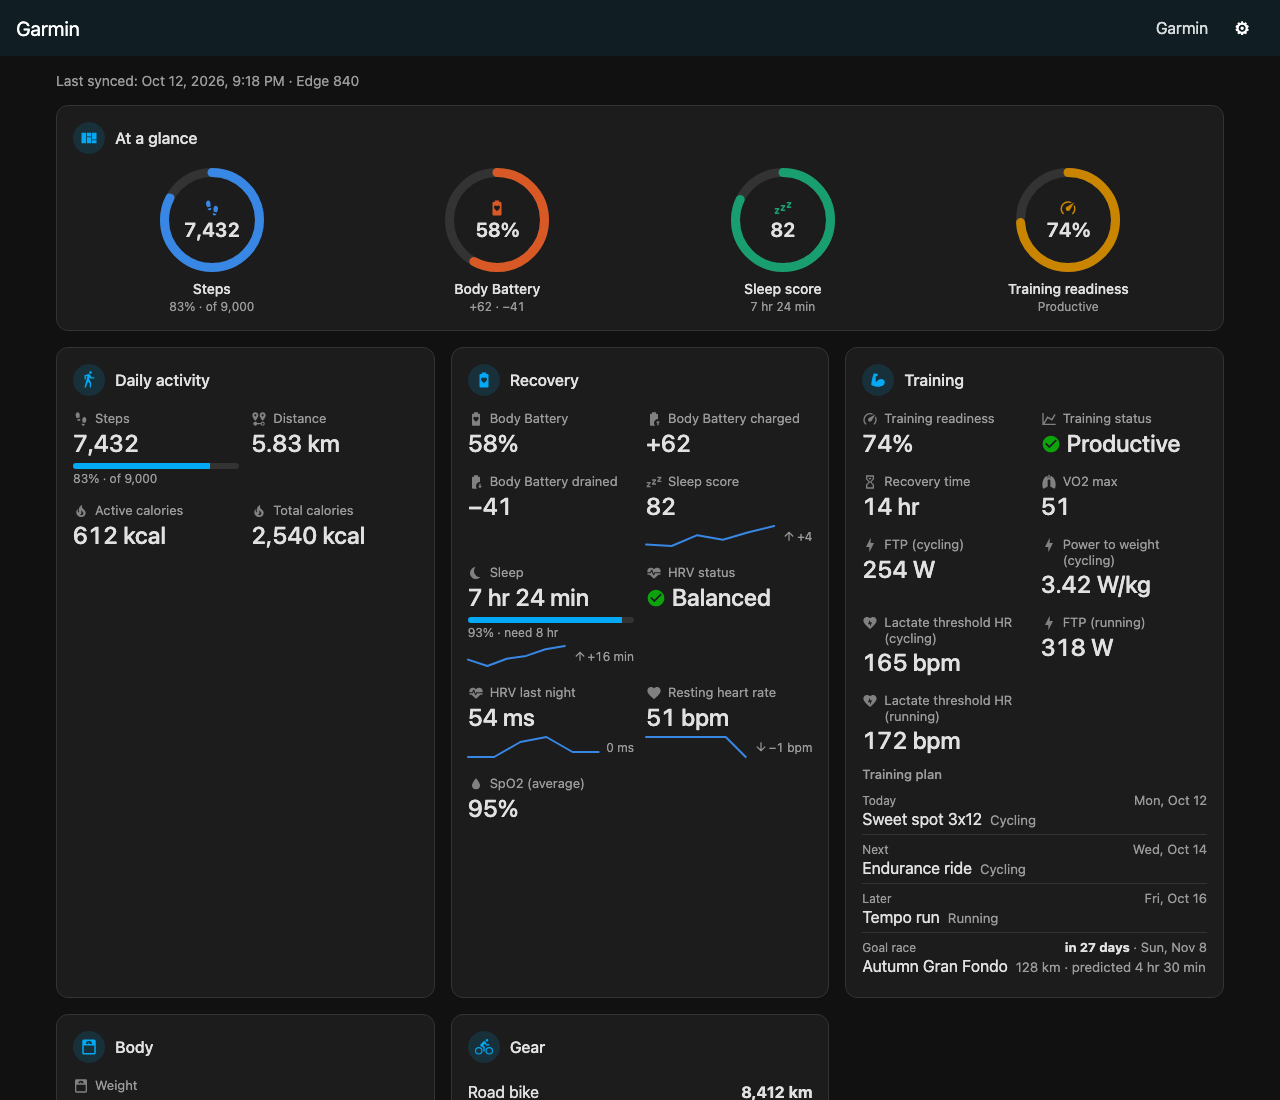
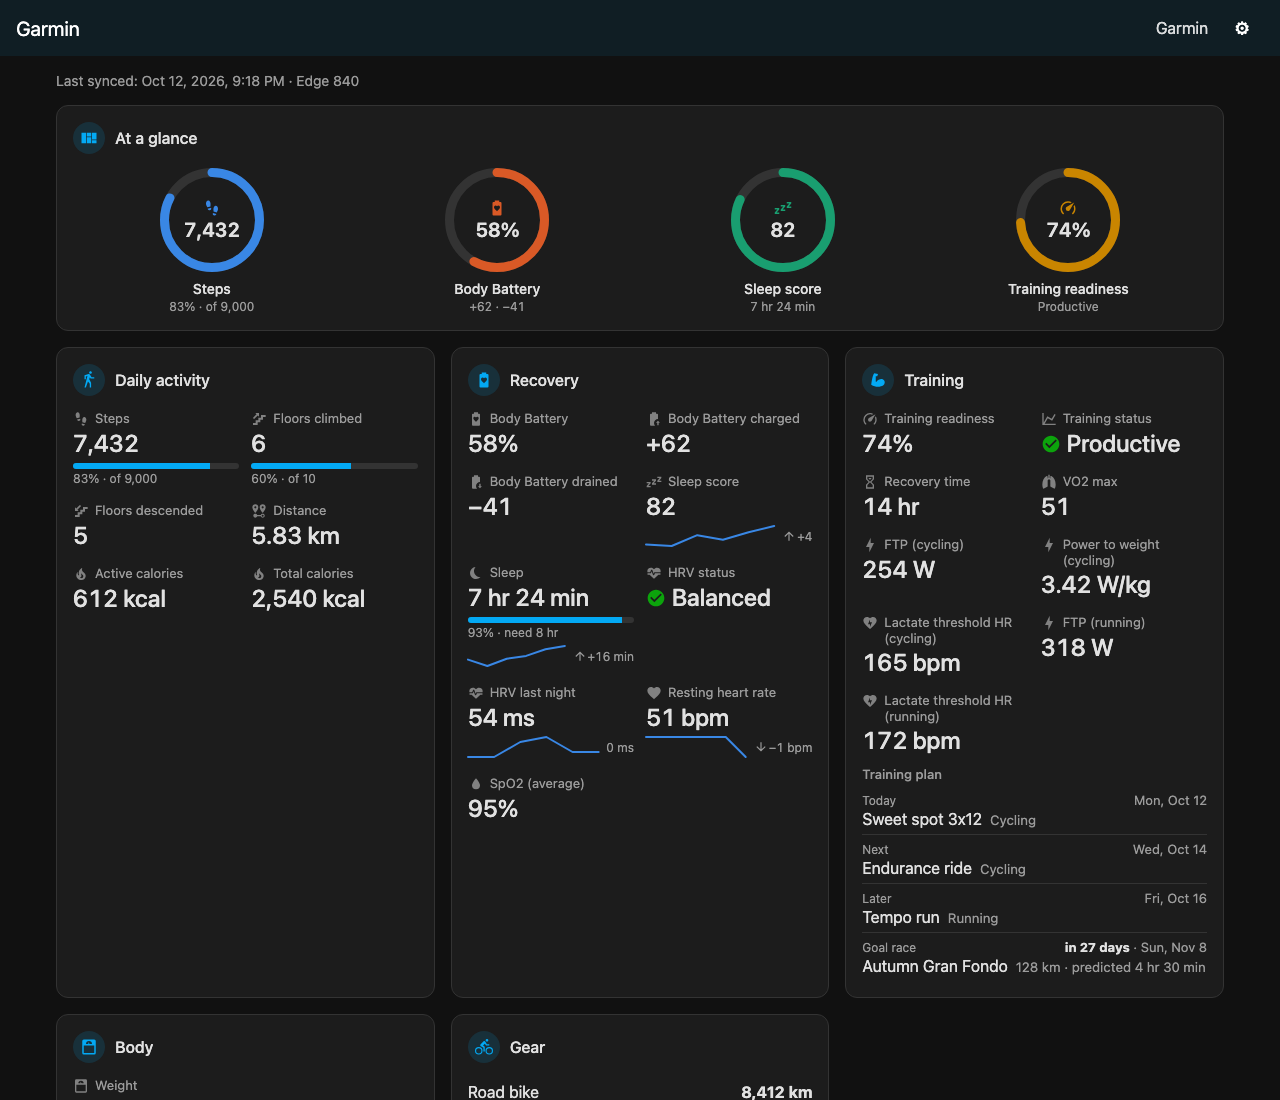
docs: mention floors, refresh screenshots

Changed region(s): [[0.1875, 0.3709, 0.2812, 0.5564], [0.0625, 0.4636, 0.1562, 0.5564]]

diff --git a/README.md b/README.md
@@ -9,7 +9,7 @@ A ready-made Garmin screen for Home Assistant. If your Garmin data already reach
 ## What you get
 
 - **At a glance:** rings for steps against your goal, Body Battery, sleep score and training readiness at the top.
-- **Today in detail:** distance, calories, Body Battery with today's charge and drain, sleep against your sleep need, HRV, resting heart rate, SpO2, training status, VO2 max. Sleep, HRV, resting heart rate and weight carry a 7-day sparkline and the change from the previous day; HRV and training status show Garmin's status with an icon.
+- **Today in detail:** floors climbed against your goal and floors descended, distance, calories, Body Battery with today's charge and drain, sleep against your sleep need, HRV, resting heart rate, SpO2, training status, VO2 max. Sleep, HRV, resting heart rate and weight carry a 7-day sparkline and the change from the previous day; HRV and training status show Garmin's status with an icon.
 - **For cyclists and runners:** FTP and power-to-weight, lactate threshold heart rate (cycling and running), gear distance, and the battery state of paired sensors such as power meters and heart-rate straps.
 - **Training plan:** today's and the next scheduled workout, and a countdown to your goal race, when you use a Garmin plan or calendar.
 - **Body:** weight, in your Home Assistant unit system.
